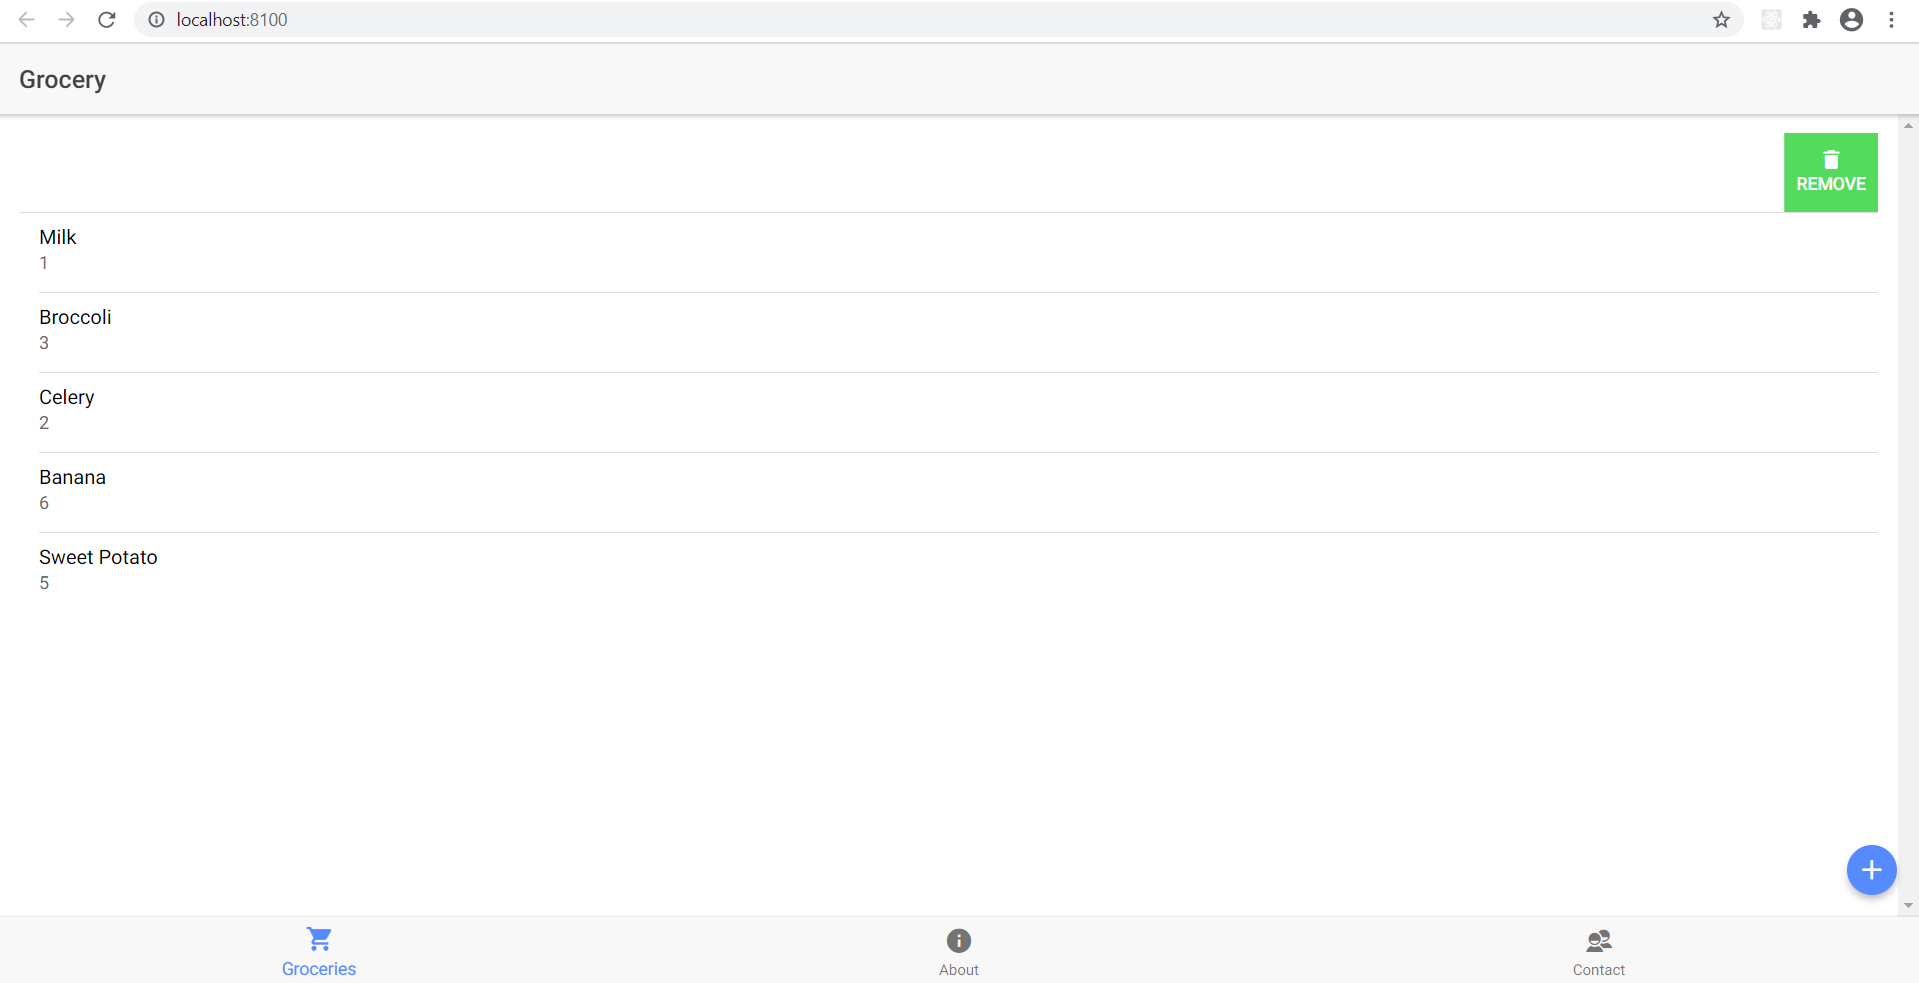
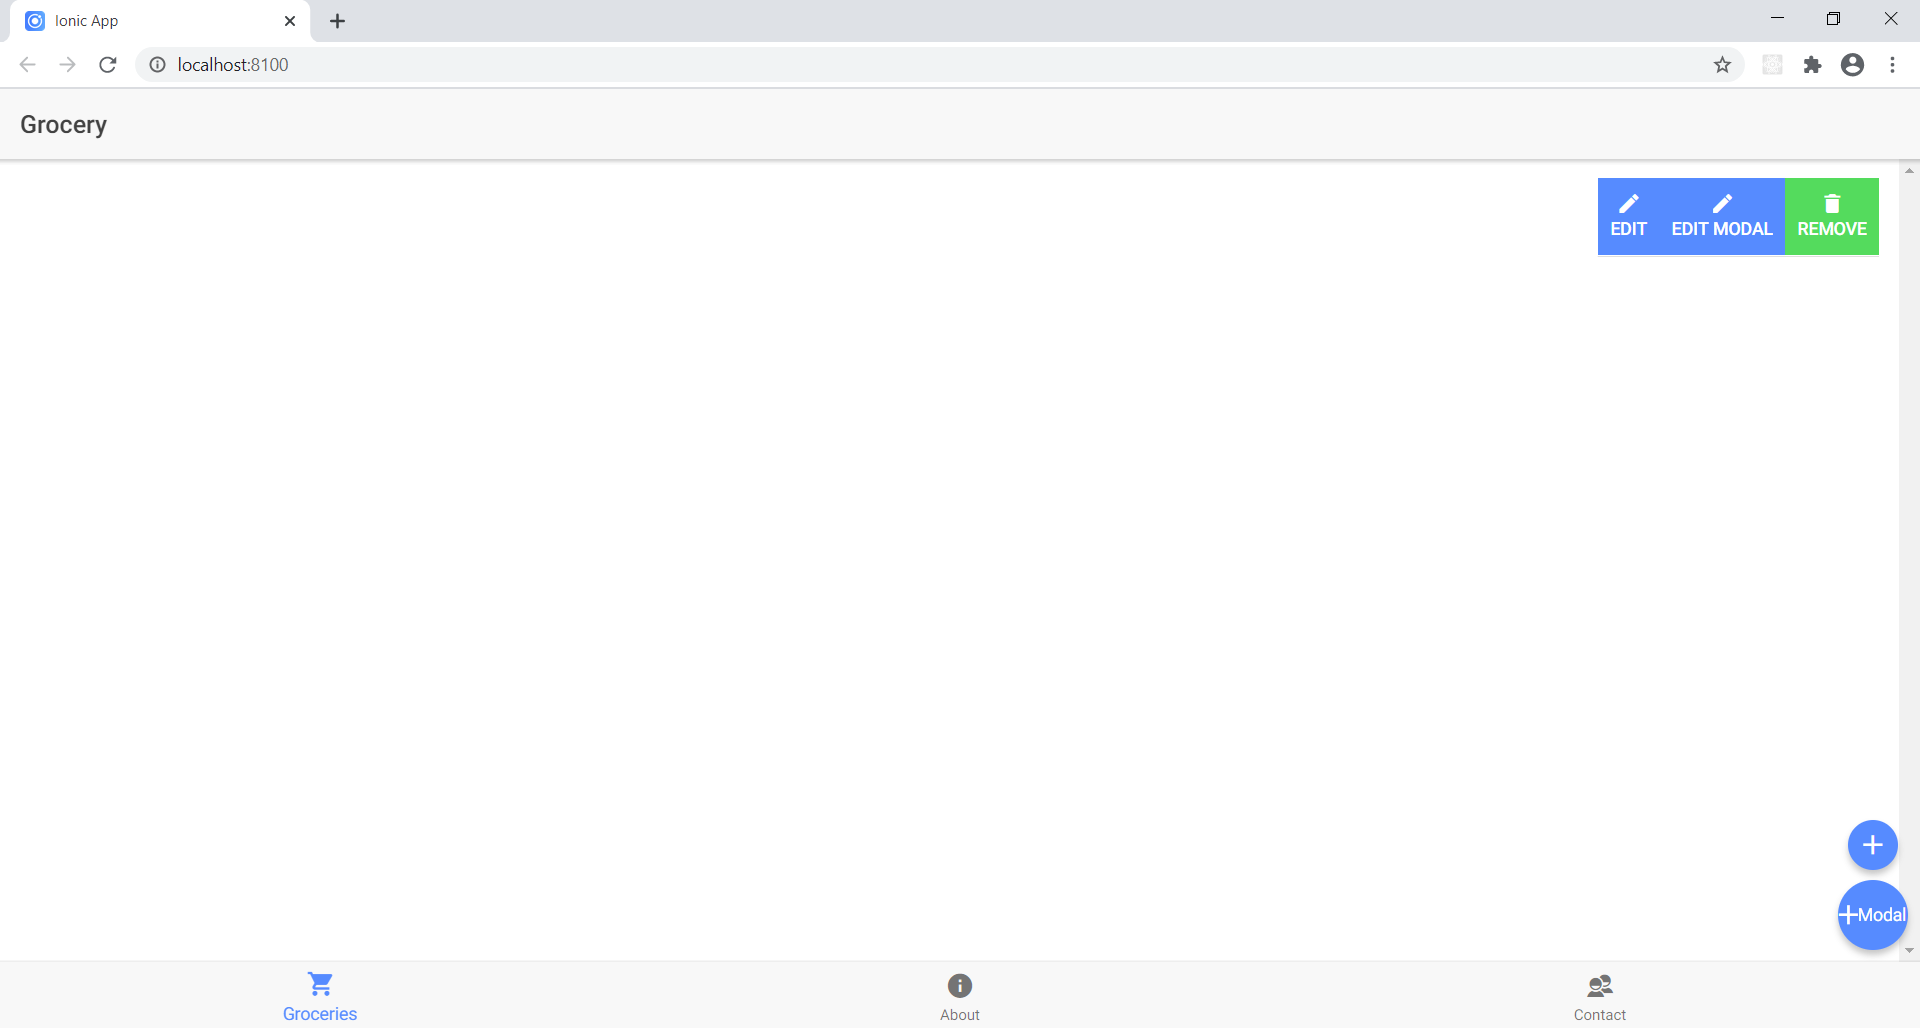
crud operations

diff --git a/src/pages/home/home.ts b/src/pages/home/home.ts
@@ -1,7 +1,8 @@
 import { Component } from '@angular/core';
-import { NavController } from 'ionic-angular';
+import { NavController} from 'ionic-angular';
 import { ToastController } from 'ionic-angular';
-import { AlertController } from 'ionic-angular';
+import { GroceryServiceProvider } from '../../providers/grocery-service/grocery-service';
+import { InputDialogServiceProvider } from '../../providers/input-dialog-service/input-dialog-service';
 
 @Component({
   selector: 'page-home',
@@ -10,56 +11,43 @@ import { AlertController } from 'ionic-angular';
 export class HomePage {
 
   title = "Grocery"
-  items = [{name:"Eggs", quantity:2},
-  {name:"Onions", quantity:1},
-  {name:"Milk", quantity:1},
-  {name:"Broccoli", quantity:3},
-  {name:"Celery", quantity:2},
-  {name:"Banana", quantity:6},
-  {name:"Sweet Potato", quantity:5}]
-  constructor(public navCtrl: NavController, public toastCtrl: ToastController, public alertCtrl: AlertController) {
+  
+  constructor(public navCtrl: NavController, public toastCtrl: ToastController, public dataService: GroceryServiceProvider, public inputDialogService: InputDialogServiceProvider) {
 
   }
+  loadItems(){
+    return this.dataService.getItems();
+  }
+  addItem(){
+    this.inputDialogService.showItemPrompt();
+  }  
+  editItem(item, index){
+    console.log("Edit Item - " + item);
+    const toast = this.toastCtrl.create({
+      message: 'Editing Item - ' + index + " ...",
+      duration: 3000
+    });
+    toast.present();
+    this.inputDialogService.showItemPrompt(item, index);
+  }
+  addModalItem(){
+    this.inputDialogService.showModalPrompt();
+  }
+  editModalItem(item, index){
+    const toast = this.toastCtrl.create({
+      message: 'Editing Item - ' + index + " ...",
+      duration: 3000
+    });
+    toast.present();
+    this.inputDialogService.showModalPrompt(item, index);
+  }
   removeItem(item, index){
+    console.log("Removing Item - " + item, index);
     const toast = this.toastCtrl.create({
       message: 'Removing Item -' + item.name +', ' + item.quantity,
       duration: 3000
     });
     toast.present();
-    this.items.splice(index, 1)
-  }
-  addItem(){
-    this.showPrompt();
-  }
-  showPrompt() {
-    const prompt = this.alertCtrl.create({
-      title: 'Add Item',
-      message: "Please enter gorcery item...",
-      inputs: [
-        {
-          name: 'name',
-          placeholder: 'Name'
-        },
-        {
-          name: 'quantity',
-          placeholder: 'Quantity'
-        },
-      ],
-      buttons: [
-        {
-          text: 'Cancel',
-          handler: data => {
-            console.log('Cancel clicked');
-          }
-        },
-        {
-          text: 'Save',
-          handler: item => {
-            this.items.push(item);
-          }
-        }
-      ]
-    });
-    prompt.present();
+    this.dataService.removeitem(index)
   }
 }

diff --git a/src/providers/input-dialog-service/input-dialog-service.ts b/src/providers/input-dialog-service/input-dialog-service.ts
@@ -1,0 +1,74 @@
+import { HttpClient } from '@angular/common/http';
+import { Injectable } from '@angular/core';
+import { AlertController, Checkbox, ModalController } from 'ionic-angular';
+import { GroceryServiceProvider } from '../../providers/grocery-service/grocery-service';
+
+/*
+  Generated class for the InputDialogServiceProvider provider.
+
+  See https://angular.io/guide/dependency-injection for more info on providers
+  and Angular DI.
+*/
+@Injectable()
+export class InputDialogServiceProvider {
+
+  constructor(public alertCtrl: AlertController, public modalCtrl: ModalController, public dataService: GroceryServiceProvider) {
+    console.log('Hello InputDialogServiceProvider Provider');
+  }
+  
+  showModalPrompt(item?, index?) {
+    if(item===undefined){
+      item = {'name':'','quantity':1};
+    }
+    const modal = this.modalCtrl.create("ModalPage", {data: item});
+    modal.present();
+    modal.onDidDismiss(data=>{ //This is a listener which wil get the data passed from modal when the modal's view controller is dismissed
+      if(data!==undefined) {
+        if(index !== undefined){
+          this.dataService.editItem(data, index);
+        }
+        else{
+          this.dataService.addItem(data);
+        }
+      }
+    })
+  }
+  showItemPrompt(item?, index?) {
+    const prompt = this.alertCtrl.create({
+      title: item? 'Edit Item' : 'Add Item',
+      message: item? "Please edit item..." : "Please enter gorcery item...",
+      inputs: [
+        {
+          name: 'name',
+          placeholder: 'Name',
+          value: item? item.name : null
+        },
+        {
+          name: 'quantity',
+          placeholder: 'Quantity',
+          value: item? item.quantity : null
+        }
+      ],
+      buttons: [
+        {
+          text: 'Cancel',
+          handler: data => {
+            console.log('Cancel clicked');
+          }
+        },
+        {
+          text: 'Save',
+          handler: item => {
+            if(index !== undefined){
+              this.dataService.editItem(item, index);
+            }
+            else{
+              this.dataService.addItem(item);
+            }
+          }
+        }
+      ]
+    });
+    prompt.present();
+  }
+}

diff --git a/src/pages/home/home.html b/src/pages/home/home.html
@@ -4,22 +4,34 @@
   </ion-navbar>
 </ion-header>
 
+
+
 <ion-content padding>
+  <h3 class="no-item" text-center *ngIf="loadItems().length === 0">No items available on the list!</h3>
   <ion-list>
-  <ion-item-sliding *ngFor="let item of items; let i = index">
-    <ion-item>
-      <h2>{{item.name}}</h2>
-      <p>{{item.quantity}}</p>
-    </ion-item>
-    <ion-item-options>
-      <button (click) = "removeItem(item, i)" ion-button color="secondary" icon-start>
-        <ion-icon name="trash"></ion-icon>
-        Remove
-      </button>
-    </ion-item-options>
-  </ion-item-sliding>
-</ion-list>
-<ion-fab bottom right>
-  <button ion-fab mini (click)="addItem()"><ion-icon name="add"></ion-icon></button>
-</ion-fab>
+    <ion-item-sliding *ngFor="let item of loadItems(); let i = index">
+      <ion-item>
+        <h2>{{item.name}}</h2>
+        <p>{{item.quantity}}</p>
+      </ion-item>
+      <ion-item-options>
+        <button (click) = "editItem(item, i)" ion-button color="primay" icon-start>
+          <ion-icon name="create"></ion-icon>
+          Edit
+        </button>
+        <button (click) = "editModalItem(item, i)" ion-button color="primay" icon-start>
+          <ion-icon name="create"></ion-icon>
+          Edit Modal
+        </button>
+        <button (click) = "removeItem(item, i)" ion-button color="secondary" icon-start>
+          <ion-icon name="trash"></ion-icon>
+          Remove
+        </button>
+      </ion-item-options>
+    </ion-item-sliding>
+  </ion-list>
+  <ion-fab bottom right>
+    <button ion-fab mini (click)="addItem()"><ion-icon name="add"></ion-icon></button>
+    <button ion-fab max (click)="addModalItem()"><ion-icon name="add"></ion-icon> Modal</button>
+  </ion-fab>
 </ion-content>

diff --git a/src/pages/modal/modal.html b/src/pages/modal/modal.html
@@ -1,0 +1,32 @@
+<!--
+  Generated template for the ModalPage page.
+
+  See http://ionicframework.com/docs/components/#navigation for more info on
+  Ionic pages and navigation.
+-->
+<ion-content padding>
+  <h3>{{title}}</h3>
+  <br><br>
+  <form>
+    <ion-list>
+        <ion-item>
+          <ion-label>Name:</ion-label>
+          <ion-input type="text" [(ngModel)] = "item.name" name="name"></ion-input>
+        </ion-item>
+        <ion-item>
+          <ion-label>Quantity:</ion-label>
+          <ion-select  [(ngModel)] = "item.quantity" name="quantity" interface="popover">
+            <ion-option *ngFor="let number of selectCount" value="{{number}}">{{number}}</ion-option>
+          </ion-select>
+        </ion-item>
+    </ion-list>
+    <br><br>
+    <ion-buttons>
+      <div class="row">
+        <div class="col text-right">
+      <button ion-button (click)="cancelModal()" item-end>Cancel</button>
+      <button ion-button (click)="submitData()"  item-end>Submit</button>
+        </div></div>
+    </ion-buttons>    
+  </form>
+  </ion-content>

diff --git a/src/pages/modal/modal.ts b/src/pages/modal/modal.ts
@@ -1,0 +1,34 @@
+import { Component } from '@angular/core';
+import { IonicPage, NavController, NavParams, ViewController } from 'ionic-angular';
+import { startWith } from 'rxjs/operator/startWith';
+
+/**
+ * Generated class for the ModalPage page.
+ *
+ * See https://ionicframework.com/docs/components/#navigation for more info on
+ * Ionic pages and navigation.
+ */
+
+@IonicPage()
+@Component({
+  selector: 'page-modal',
+  templateUrl: 'modal.html',
+})
+export class ModalPage {
+  item = {'name':'', 'quantity':1};
+  title = "Add Grocery";
+  selectCount = Array(12).fill(0, 0).map((_, idx) => 1 + idx);
+  constructor(public navCtrl: NavController, public navParams: NavParams, public view: ViewController) {
+  }
+  cancelModal(){
+    this.view.dismiss();
+  }
+  submitData(){
+    this.view.dismiss(this.item);
+  }
+  ionViewWillLoad() {
+    this.item = this.navParams.get("data");
+    this.title = this.item.name===''?"Add Grocery": "Edit Grocery";
+    console.log(this.selectCount);
+  }
+}

diff --git a/src/providers/grocery-service/grocery-service.ts b/src/providers/grocery-service/grocery-service.ts
@@ -1,0 +1,35 @@
+import { HttpClient } from '@angular/common/http';
+import { Injectable } from '@angular/core';
+
+/*
+  Generated class for the GroceryServiceProvider provider.
+
+  See https://angular.io/guide/dependency-injection for more info on providers
+  and Angular DI.
+*/
+@Injectable()
+export class GroceryServiceProvider {
+   items = [];
+  // [{name:"Eggs", quantity:2},
+  // {name:"Onions", quantity:1},
+  // {name:"Milk", quantity:1},
+  // {name:"Broccoli", quantity:3},
+  // {name:"Celery", quantity:2},
+  // {name:"Banana", quantity:6},
+  // {name:"Sweet Potato", quantity:5}]
+  constructor() {
+    console.log('Hello GroceryServiceProvider Provider');
+  }
+  getItems(){
+    return this.items;
+  }
+  removeitem(index){
+    this.items.splice(index, 1);
+  }
+  addItem(item){
+    this.items.push(item);
+  }
+  editItem(item, index){
+    this.items[index]= item;
+  }
+}

diff --git a/src/app/app.module.ts b/src/app/app.module.ts
@@ -10,6 +10,8 @@ import { TabsPage } from '../pages/tabs/tabs';
 
 import { StatusBar } from '@ionic-native/status-bar';
 import { SplashScreen } from '@ionic-native/splash-screen';
+import { GroceryServiceProvider } from '../providers/grocery-service/grocery-service';
+import { InputDialogServiceProvider } from '../providers/input-dialog-service/input-dialog-service';
 
 @NgModule({
   declarations: [
@@ -34,7 +36,9 @@ import { SplashScreen } from '@ionic-native/splash-screen';
   providers: [
     StatusBar,
     SplashScreen,
-    {provide: ErrorHandler, useClass: IonicErrorHandler}
+    {provide: ErrorHandler, useClass: IonicErrorHandler},
+    GroceryServiceProvider,
+    InputDialogServiceProvider
   ]
 })
 export class AppModule {}

diff --git a/src/pages/modal/modal.module.ts b/src/pages/modal/modal.module.ts
@@ -1,0 +1,13 @@
+import { NgModule } from '@angular/core';
+import { IonicPageModule } from 'ionic-angular';
+import { ModalPage } from './modal';
+
+@NgModule({
+  declarations: [
+    ModalPage,
+  ],
+  imports: [
+    IonicPageModule.forChild(ModalPage),
+  ],
+})
+export class ModalPageModule {}

diff --git a/src/theme/variables.scss b/src/theme/variables.scss
@@ -38,7 +38,8 @@ $colors: (
   secondary:  #32db64,
   danger:     #f53d3d,
   light:      #f4f4f4,
-  dark:       #222
+  dark:       #222,
+  darkgoldenrod: #b8860b
 );
 
 

diff --git a/src/pages/home/home.scss b/src/pages/home/home.scss
@@ -1,3 +1,5 @@
 page-home {
-
+    h3.no-item {
+        color: map-get($colors , 'darkgoldenrod' );
+    }
 }

diff --git a/src/pages/modal/modal.scss b/src/pages/modal/modal.scss
@@ -1,0 +1,3 @@
+page-modal {
+
+}
